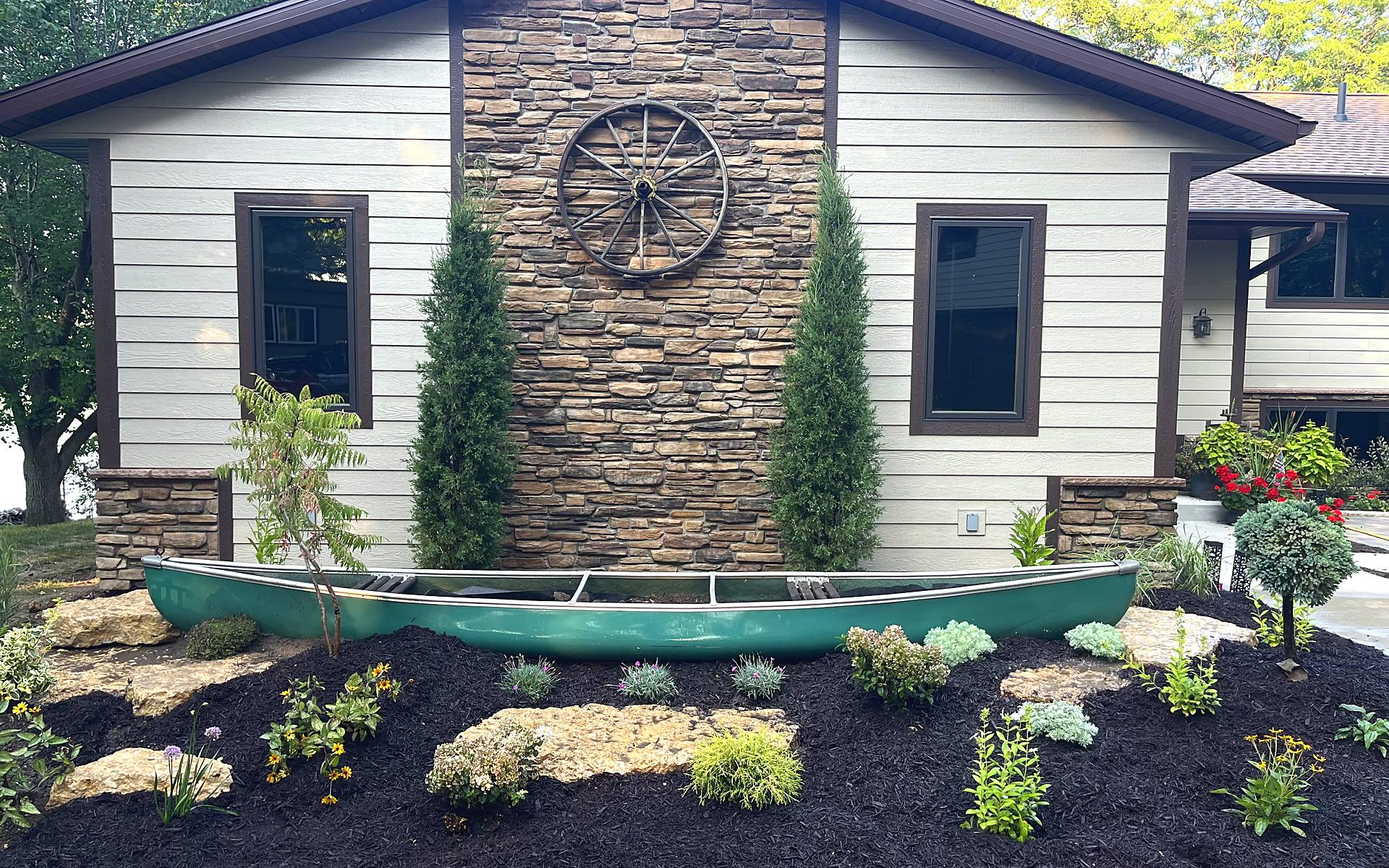
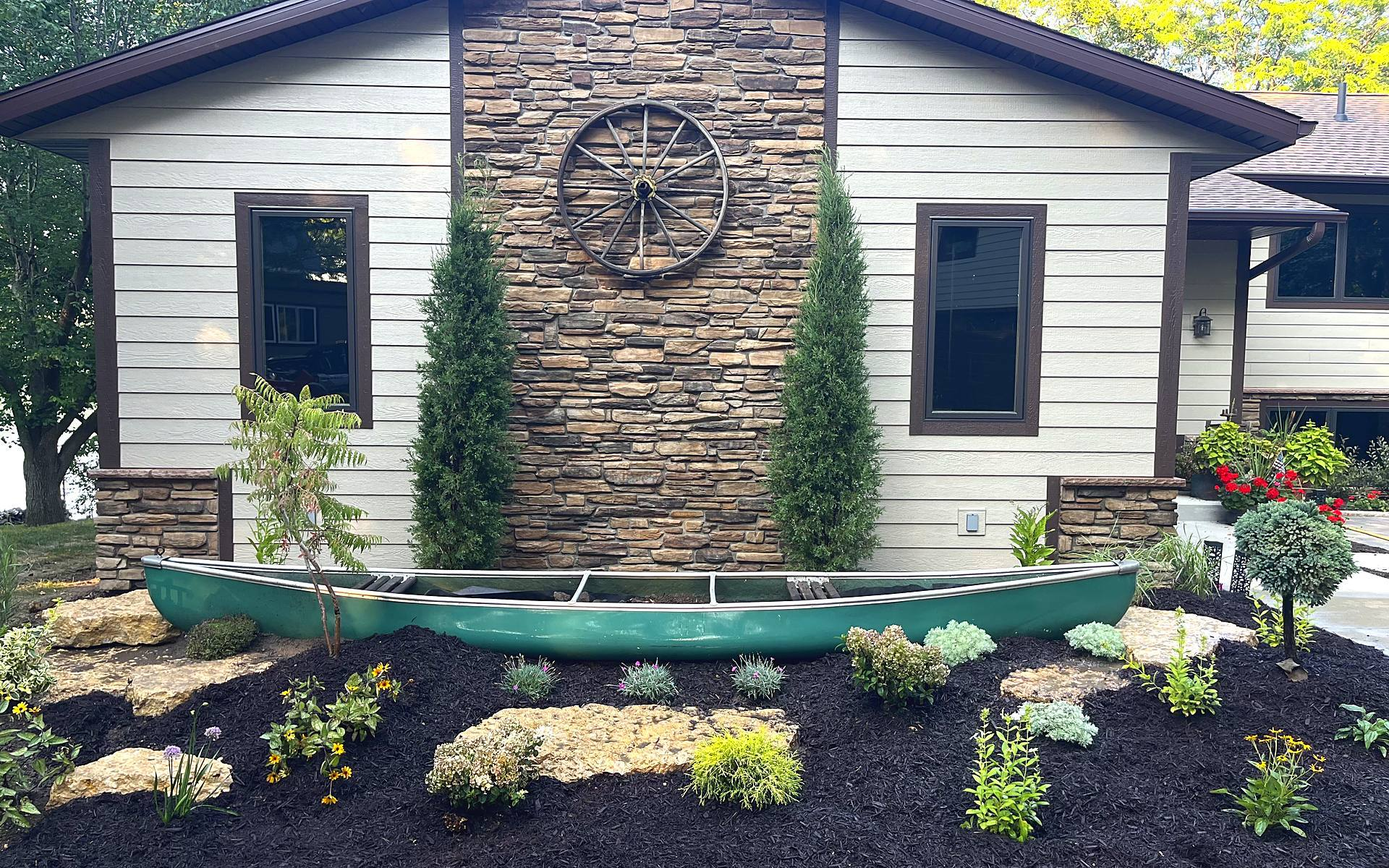
Use the new canoe bed photo (flowers lightly punched up) on the home hero, service areas hero and mulch page

Changed region(s): [[0.7188, 0.0, 1.0, 0.1233], [0.5, 0.8325, 0.5625, 0.8942]]

diff --git a/mulch-bed-work.html b/mulch-bed-work.html
@@ -114,7 +114,7 @@ fbq('track', 'PageView');
       <ul style="margin-top:22px;list-style:none;"><li style='padding:10px 0;border-bottom:1px solid var(--line);'><b>&#10003;</b> Clean-cut bed edging</li><li style='padding:10px 0;border-bottom:1px solid var(--line);'><b>&#10003;</b> Hardwood mulch or decorative rock</li><li style='padding:10px 0;border-bottom:1px solid var(--line);'><b>&#10003;</b> New bed layout or seasonal refresh</li><li style='padding:10px 0;border-bottom:1px solid var(--line);'><b>&#10003;</b> Weed barrier installed where it makes sense</li></ul>
       <div style="margin-top:28px;"><a href="contact.html" class="btn btn-primary">Get a Free Estimate</a></div>
     </div>
-    <div class="photo-cine tilt" data-reveal><img src="assets/photos/IMG_1811.jpg" alt="New View Landscaping — Mulch, Rock & Bed Work" loading="lazy" decoding="async" style="width:100%;height:100%;object-fit:cover;object-position:center;border-radius:10px;aspect-ratio:4/3;"></div>
+    <div class="photo-cine tilt" data-reveal><img src="assets/photos/hero-canoe-straight.jpg" alt="New View Landscaping mulch, rock and bed work: flower bed with limestone boulders and a canoe planter" loading="lazy" decoding="async" style="width:100%;height:100%;object-fit:cover;object-position:center;border-radius:10px;aspect-ratio:4/3;"></div>
   </div>
 </section>
 <section>

diff --git a/service-areas.html b/service-areas.html
@@ -62,7 +62,7 @@ fbq('track', 'PageView');
   </div>
 </header>
 <section class="pagehead">
-  <div class="cine-media"><img src="assets/photos/IMG_1811.jpg" alt="New View Landscaping service area" loading="eager" fetchpriority="high" style="width:100%;height:100%;object-fit:cover;object-position:center;border-radius:10px;aspect-ratio:4/3;"></div>
+  <div class="cine-media"><img src="assets/photos/hero-canoe-straight.jpg" alt="New View Landscaping flower bed with a canoe planter, installed for a lake house near Dubuque" loading="eager" fetchpriority="high" style="width:100%;height:100%;object-fit:cover;object-position:center;border-radius:10px;aspect-ratio:4/3;"></div>
   <div class="wrap enter">
     <div class="crumb">Service Areas</div>
     <h1>Dubuque and the Tri-State Area</h1>
